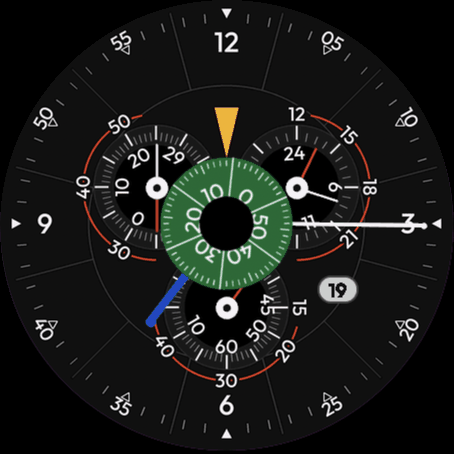
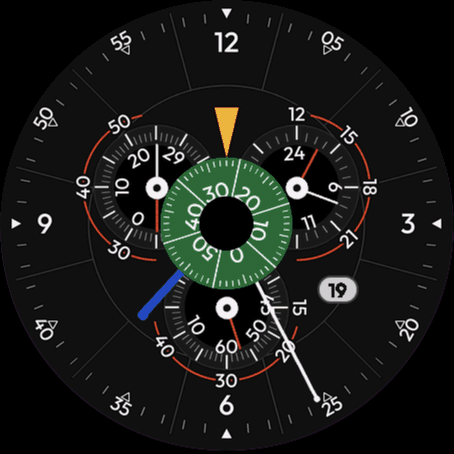
Trio Chrono: sharpen the seconds disc
The disc bitmap was 136 px and rotated every second, so every frame
was resampled soft. It is now rendered at 2x and the view scales it
by half inside the same rotation, which averages four source pixels
per output pixel. The design sheet draws at device pixel ratio with 2x
art from the renderer's new --preview flag. Wake screenshot refreshed
from this build.

diff --git a/docs/design/trio-chrono-design-sheet.html b/docs/design/trio-chrono-design-sheet.html
@@ -98,14 +98,17 @@
     g.strokeStyle = color; g.lineWidth = w; g.lineCap = 'round';
     g.beginPath(); g.moveTo(x, y); g.lineTo(x + len * Math.cos(rad(deg)), y + len * Math.sin(rad(deg))); g.stroke();
   }
+  var DPR = Math.min(window.devicePixelRatio || 1, 3);
+  ['dark', 'light', 'aod'].forEach(function (id) { var c = document.getElementById(id); c.width = c.height = 454 * DPR; });
   function draw(id, theme) {
     var g = document.getElementById(id).getContext('2d'), t = now(), aod = theme === 'aod';
+    g.setTransform(DPR, 0, 0, DPR, 0, 0);
     var light = theme === 'light', ink = light && !aod ? '#111' : '#f2f2f2', paper = aod ? '#000' : light ? '#e8e8e0' : '#101010';
     var dx = 0, dy = 0;
     if (aod) { dx = t.m % 4 < 2 ? 0 : 3; dy = t.m % 2 === 0 ? 0 : 3; }
     var cx = C + dx, cy = C + dy, sec = aod ? 0 : t.s;
     g.clearRect(0, 0, 454, 454);
-    g.drawImage(img[aod ? 'dial_aod' : light ? 'dial_light' : 'dial_dark'], dx, dy);
+    g.drawImage(img[aod ? 'dial_aod' : light ? 'dial_light' : 'dial_dark'], dx, dy, 454, 454);
     var hw = aod ? 1 : 2;
     ray(g, SUB[0][0] + dx, SUB[0][1] + dy, t.steps * 360, 43, hw, ink);
     ray(g, SUB[0][0] + dx, SUB[0][1] + dy, t.batt * 360, 43, hw, RED);
@@ -120,7 +123,7 @@
     ray(g, cx, cy, (t.h % 12 + t.m / 60) * 30, 124, aod ? 2 : 8, BLUE);
     ray(g, cx, cy, (t.m + sec / 60) * 6, 198, aod ? 2 : 4, ink);
     if (aod) { g.beginPath(); g.arc(cx, cy, 27, 0, 7); g.fillStyle = '#000'; g.fill(); }
-    g.save(); g.translate(cx, cy); g.rotate(sec * 6 * Math.PI / 180); g.drawImage(img[aod ? 'disc_aod' : 'disc'], -68, -68); g.restore();
+    g.save(); g.translate(cx, cy); g.rotate(sec * 6 * Math.PI / 180); g.drawImage(img[aod ? 'disc_aod' : 'disc'], -68, -68, 136, 136); g.restore();
     var px = 338 + dx, py = 293 + dy;
     g.beginPath(); g.roundRect(px - 20.5, py - 14, 41, 28, 14);
     if (aod) { g.strokeStyle = '#8a8a8a'; g.lineWidth = 1; g.stroke(); }
@@ -131,8 +134,9 @@
     g.fillStyle = aod ? ink : light ? '#f2f2f2' : '#111'; g.font = '500 20px Outfit, sans-serif'; g.textAlign = 'center'; g.textBaseline = 'middle';
     g.fillText(String(t.day), px, py + 1);
     if (aod) {
-      var d = g.getImageData(0, 0, 454, 454).data, n = 0;
+      var d = g.getImageData(0, 0, 454 * DPR, 454 * DPR).data, n = 0;
       for (var i = 0; i < d.length; i += 4) if (d[i] | d[i + 1] | d[i + 2]) n++;
+      n = Math.round(n / (DPR * DPR));
       document.getElementById('pix').innerHTML = (100 * n / (454 * 454)).toFixed(1) + '% <small>of pixels lit, ' + n.toLocaleString() + ' of 206,116; Garmin allows 10%</small>';
     }
   }

diff --git a/faces/trio-chrono/render_dial.py b/faces/trio-chrono/render_dial.py
@@ -2,14 +2,17 @@
 """Render the static art for Trio Chrono at 454 px.
 
 Writes into resources/drawables/: the dial for the dark, light and
-always-on themes, the green seconds disc (full and outline), and the
-launcher icon. Also writes docs/store/trio-chrono/icon-500.png.
+always-on themes, the green seconds disc (full and outline) at 2x so the
+watch can rotate it without going soft, and the launcher icon. Also
+writes docs/store/trio-chrono/icon-500.png.
 
 Run from the repo root:
   python3 faces/trio-chrono/render_dial.py
+  python3 faces/trio-chrono/render_dial.py --preview DIR   # 2x art for the design sheet
 """
 import math
 import os
+import sys
 
 from PIL import Image, ImageDraw, ImageFont
 
@@ -124,7 +127,7 @@ def triangle(d, tip, base_c, half_w, fill=None, outline=None, width=1):
         d.line(pts + [pts[0]], fill=outline, width=round(width * S), joint="curve")
 
 
-def render_dial(theme):
+def render_dial(theme, scale=1):
     t = THEMES[theme]
     img = Image.new("RGBA", (W * S, W * S), t["bg"] + (255,))
     d = ImageDraw.Draw(img)
@@ -180,10 +183,10 @@ def render_dial(theme):
         for text, b, r in sd["inner"]:
             label(img, text, pol(*sc, b, r * R), upright(b), 19, t["text"])
 
-    return img.resize((W, W), Image.LANCZOS)
+    return img.resize((W * scale, W * scale), Image.LANCZOS)
 
 
-def render_disc(outline_only):
+def render_disc(outline_only, scale=2):
     """the green seconds disc, numbers running anticlockwise so the disc turns clockwise"""
     D = 136
     cx = cy = D / 2
@@ -205,13 +208,13 @@ def render_disc(outline_only):
         label(img, str(10 * k), pol(cx, cy, b, 33), b, 22, white)
     if not outline_only:
         circle(d, (cx, cy), 27, fill=(0, 0, 0))
-    return img.resize((D, D), Image.LANCZOS)
+    return img.resize((D * scale, D * scale), Image.LANCZOS)
 
 
 def render_icon(size):
     """dark dial centre with the green disc, cropped to a circle"""
     dial = render_dial("dark")
-    disc = render_disc(False)
+    disc = render_disc(False, 1)
     dial.alpha_composite(disc, (round(R - disc.width / 2), round(R - disc.height / 2)))
     crop = 150
     icon = dial.crop((round(R - crop), round(R - crop), round(R + crop), round(R + crop))).resize((size * S, size * S), Image.LANCZOS)
@@ -230,7 +233,24 @@ def lit_pixels(img):
     return sum(1 for p in img.convert("RGB").getdata() if max(p) > 0)
 
 
+def aod_disc(scale):
+    disc = render_disc(True, scale)
+    disc.putalpha(disc.split()[3].point(lambda v: 0 if v < 64 else v))
+    return disc
+
+
 def main():
+    if len(sys.argv) == 3 and sys.argv[1] == "--preview":
+        out = sys.argv[2]
+        os.makedirs(out, exist_ok=True)
+        for theme in THEMES:
+            img = render_dial(theme, 2)
+            if theme == "aod":
+                img = snap_dark(img)
+            img.convert("RGB").save(os.path.join(out, "dial_%s.png" % theme))
+        render_disc(False).save(os.path.join(out, "disc.png"))
+        aod_disc(2).save(os.path.join(out, "disc_aod.png"))
+        return
     os.makedirs(OUT, exist_ok=True)
     for theme in THEMES:
         img = render_dial(theme)
@@ -239,11 +259,9 @@ def main():
         img.convert("RGB").save(os.path.join(OUT, "dial_%s.png" % theme))
         print("dial_%s.png lit pixels %d (%.1f%%)" % (theme, lit_pixels(img), 100 * lit_pixels(img) / (W * W)))
     render_disc(False).save(os.path.join(OUT, "disc.png"))
-    disc = render_disc(True)
-    a = disc.split()[3].point(lambda v: 0 if v < 64 else v)
-    disc.putalpha(a)
+    disc = aod_disc(2)
     disc.save(os.path.join(OUT, "disc_aod.png"))
-    print("disc_aod.png lit pixels %d" % lit_pixels(disc))
+    print("disc_aod.png lit pixels at 1x %d" % lit_pixels(aod_disc(1)))
     render_icon(65).save(os.path.join(OUT, "launcher_icon.png"))
     store = os.path.join(ROOT, "docs", "store", "trio-chrono")
     os.makedirs(store, exist_ok=True)
